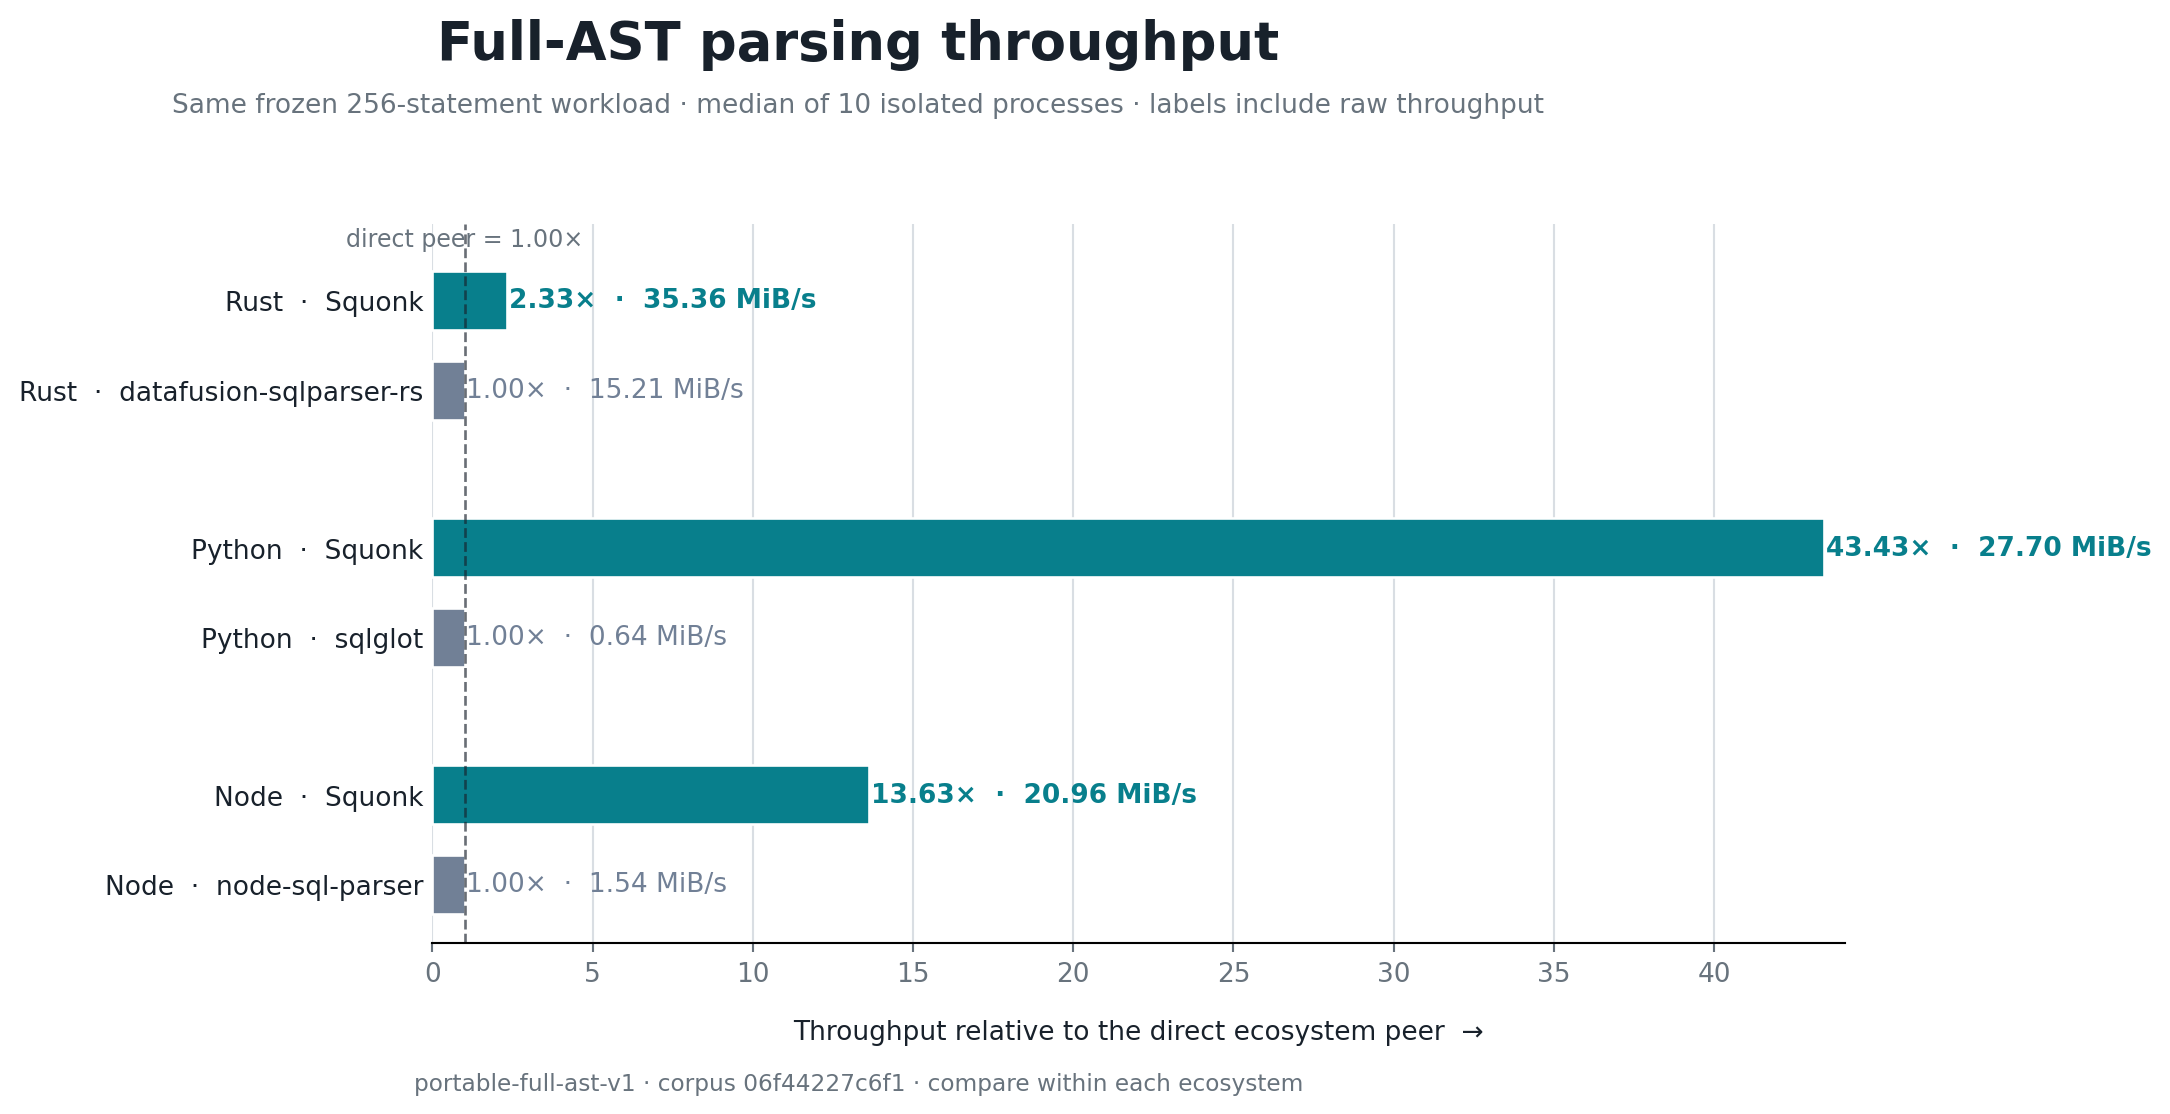
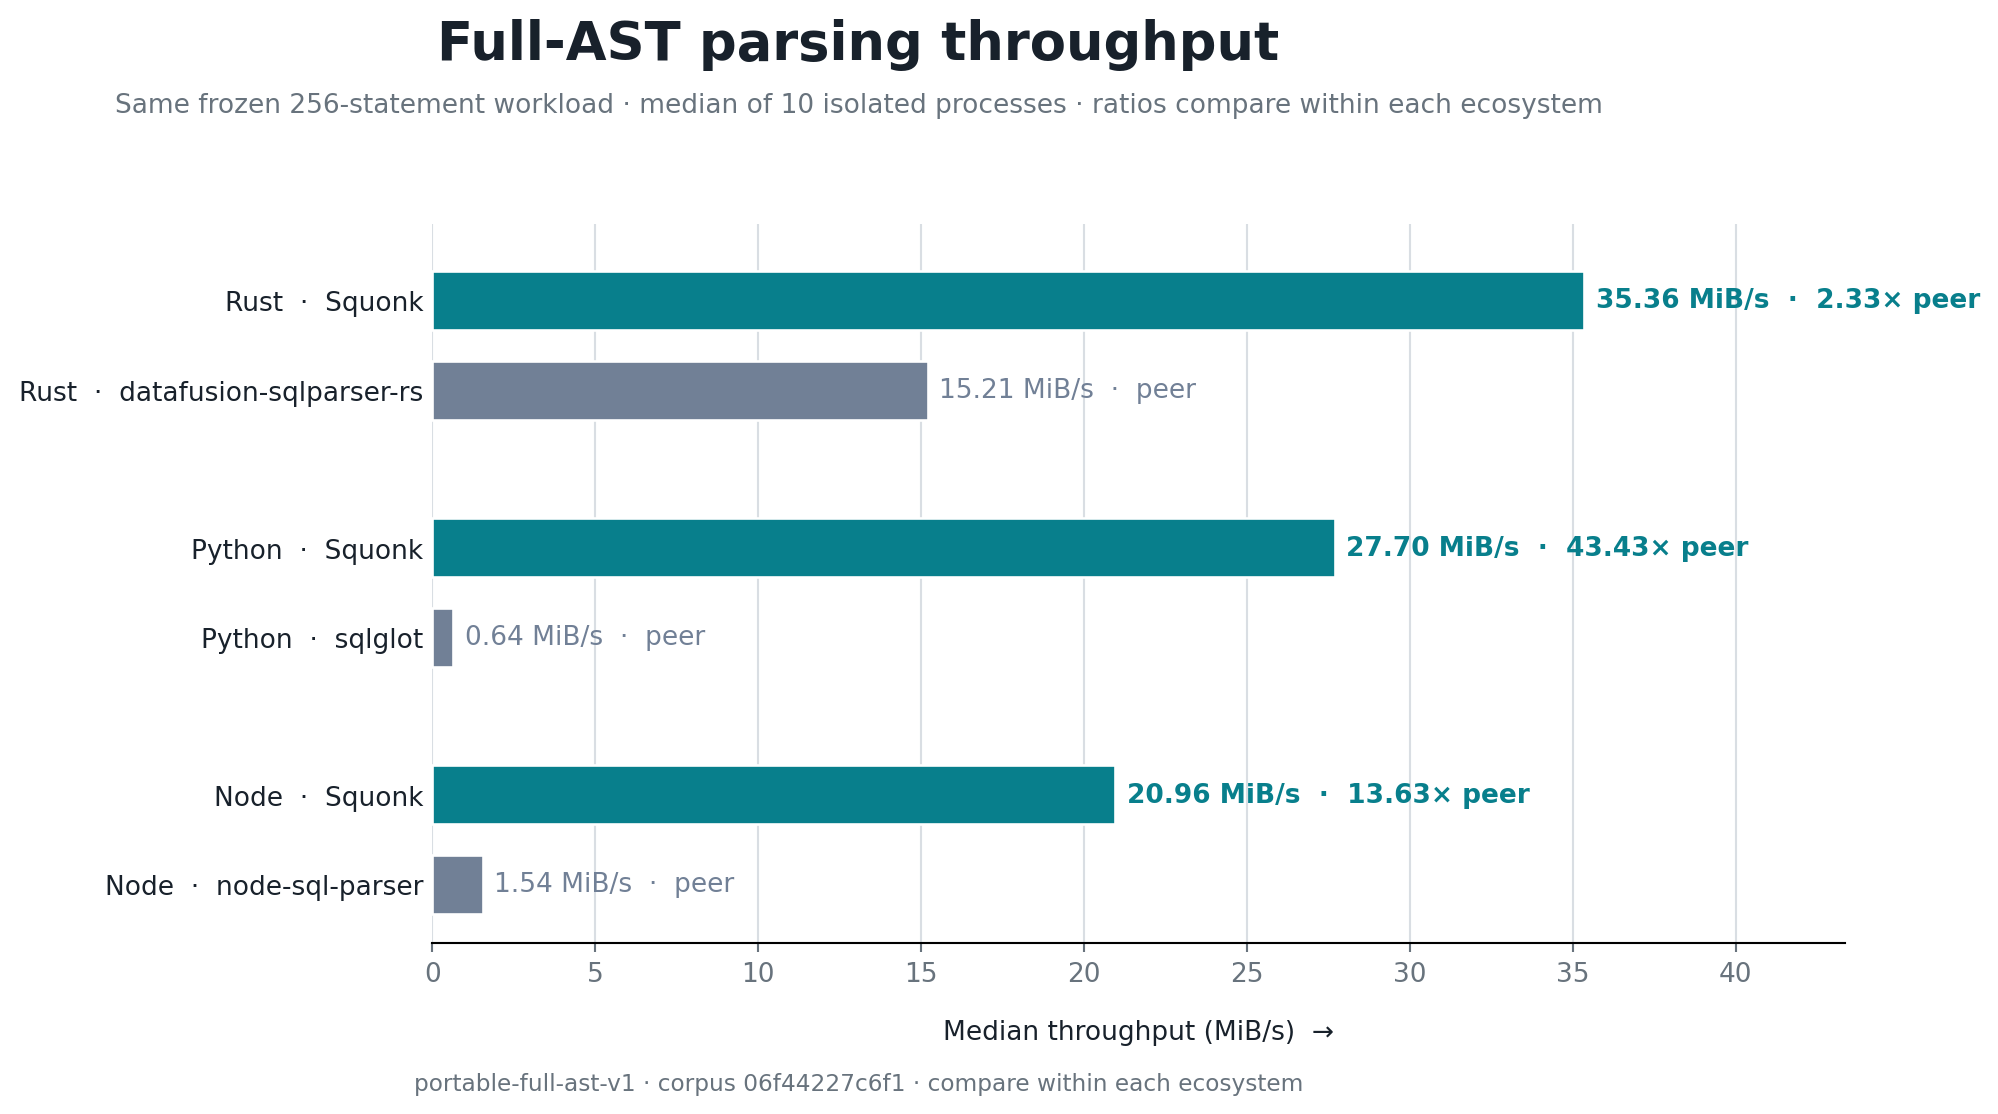
docs(perf): chart actual throughput

diff --git a/bench/plot_performance.py b/bench/plot_performance.py
@@ -75,12 +75,21 @@ def main() -> None:
     ):
         color = SQUONK if tool == "squonk" else REFERENCE
         ax.barh(
-            position, ratio, height=0.66, color=color, edgecolor="white", linewidth=1.0
+            position,
+            throughput,
+            height=0.66,
+            color=color,
+            edgecolor="white",
+            linewidth=1.0,
         )
         value = ax.text(
-            ratio + 0.05,
+            throughput + 0.35,
             position,
-            f"{ratio:.2f}×  ·  {throughput:.2f} MiB/s",
+            (
+                f"{throughput:.2f} MiB/s  ·  {ratio:.2f}× peer"
+                if tool == "squonk"
+                else f"{throughput:.2f} MiB/s  ·  peer"
+            ),
             va="center",
             ha="left",
             color=color,
@@ -102,21 +111,9 @@ def main() -> None:
             for ecosystem, tool, _, _ in rows
         ],
     )
-    ax.axvline(1.0, color=INK, linewidth=1.0, linestyle="--", alpha=0.65)
-    ax.text(
-        1.0,
-        6.05,
-        "direct peer = 1.00×",
-        ha="center",
-        va="bottom",
-        color=MUTED,
-        fontsize=9,
-    )
-    ax.set_xlim(0, max(ratio for _, _, ratio, _ in rows) + 0.65)
+    ax.set_xlim(0, max(throughput for _, _, _, throughput in rows) + 8.0)
     ax.set_ylim(-1.65, 6.35)
-    ax.set_xlabel(
-        "Throughput relative to the direct ecosystem peer  →", color=INK, labelpad=12
-    )
+    ax.set_xlabel("Median throughput (MiB/s)  →", color=INK, labelpad=12)
     ax.grid(axis="x", color=GRID, linewidth=0.8)
     ax.set_axisbelow(True)
     ax.spines[["top", "right", "left"]].set_visible(False)
@@ -133,7 +130,7 @@ def main() -> None:
     fig.text(
         0.5,
         0.885,
-        "Same frozen 256-statement workload · median of 10 isolated processes · labels include raw throughput",
+        "Same frozen 256-statement workload · median of 10 isolated processes · ratios compare within each ecosystem",
         ha="center",
         fontsize=10,
         color=MUTED,
@@ -161,6 +158,7 @@ def main() -> None:
         metadata={
             "Benchmark-SHA256": hashlib.sha256(result_bytes).hexdigest(),
             "Benchmark-Source-Commit": result["source_commit"],
+            "Benchmark-X-Axis": "median_mib_per_second",
         },
     )
     plt.close(fig)

diff --git a/bench/publication/test_publication.py b/bench/publication/test_publication.py
@@ -74,6 +74,9 @@ class PublicationTests(unittest.TestCase):
             self.assertEqual(
                 image.info.get("Benchmark-Source-Commit"), result["source_commit"]
             )
+            self.assertEqual(
+                image.info.get("Benchmark-X-Axis"), "median_mib_per_second"
+            )
 
     def test_published_headline_values_match_result(self) -> None:
         result = json.loads((HERE / "results" / "headline.json").read_text())

diff --git a/README.md b/README.md
@@ -126,14 +126,15 @@ language-runtime costs are not mistaken for parser-core differences.
 
 <img
   src="./docs/assets/performance-summary.png"
-  alt="Horizontal bars compare Squonk's full-AST throughput with a direct Rust, Python, and Node peer. Squonk is 2.33, 43.43, and 13.63 times its Rust, Python, and Node peers."
+  alt="Horizontal bars show actual full-AST throughput in MiB per second for Squonk and its direct Rust, Python, and Node peers. Squonk reaches 35.36, 27.70, and 20.96 MiB per second through those APIs."
   width="1200"
 />
 
 On the controlled Linux snapshot, Squonk delivered **2.33×**, **43.43×**, and **13.63×**
 the full-AST throughput of its direct Rust, Python, and Node peers, respectively. The binding
 measurements exercise the public document APIs, including their native object construction;
-they are product measurements rather than Rust-core-only results.
+they are product measurements rather than Rust-core-only results. The chart uses actual MiB/s
+on its shared axis; multiplier annotations are comparisons only within each ecosystem pair.
 
 Why this metric is useful, which comparisons are valid, cold-start and retained-memory
 results, uncertainty, limitations, and the raw observations are documented in

diff --git a/docs/performance.md b/docs/performance.md
@@ -121,7 +121,10 @@ that deferred work is not part of this parse-only metric. The peer parsers retur
 normal runtime-native trees, so these remain public-product comparisons rather than
 measurements of the Rust parser core alone.
 
-![Full-AST throughput relative to each ecosystem peer](assets/performance-summary.png)
+![Actual full-AST throughput in MiB per second for each parser and ecosystem](assets/performance-summary.png)
+
+The chart's shared x-axis is actual median throughput, not a normalized multiplier. Ratio
+annotations remain pair-local because each ecosystem has a different direct peer.
 
 ## Metric 2: cold-start latency
 